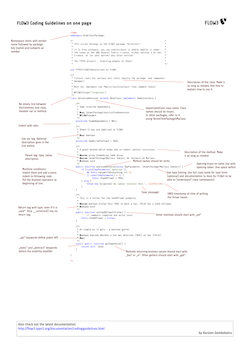
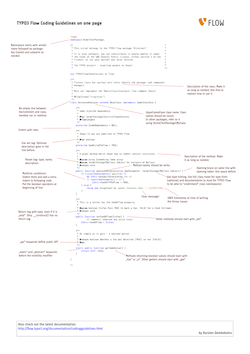
[TASK] Update link and thumbnail for one-page CGL
Related: #43882
Releases: master, 2.0

Changed region(s): [[0.028, 0.0621, 0.952, 0.7458], [0.784, 0.0311, 0.924, 0.0932], [0.168, 0.9011, 0.196, 0.9322]]

diff --git a/Documentation/TheDefinitiveGuide/PartV/CodingGuideLines/PHP.rst b/Documentation/TheDefinitiveGuide/PartV/CodingGuideLines/PHP.rst
@@ -26,7 +26,7 @@ CGL on One Page
 	:alt: CGL on one page
 
 The most important parts of our `Coding Guidelines in a one page document
-<http://flow.typo3.org/_Resources/Static/Packages/TYPO3.Flow3Org/Assets/Content/FLOW3-CGL-on-one-page.pdf>`_
+<http://flow.typo3.org/_Resources/Static/Packages/TYPO3.Flow3Org/Assets/Content/TYPO3_Flow-CGL-on-one-page.pdf>`_
 you can print out and hang on your wall for easy reference.
 Does it get any easier than that?
 
